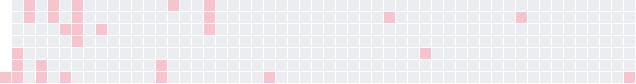
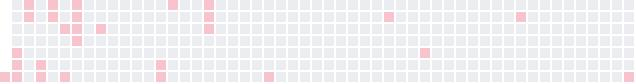
Update clock_in: fix some bugs

diff --git a/clock_in.py b/clock_in.py
@@ -46,7 +46,7 @@ def clock_in():
 def get_position(date):
     y = get_weekday(date) * 12
     x = get_order(date) * 12
-    return (x,y,x+10,y+10)
+    return (x,y,x+9,y+9)
 
 def draw_calendar_graph(dates):
     color_default = (235,237,240,100)
